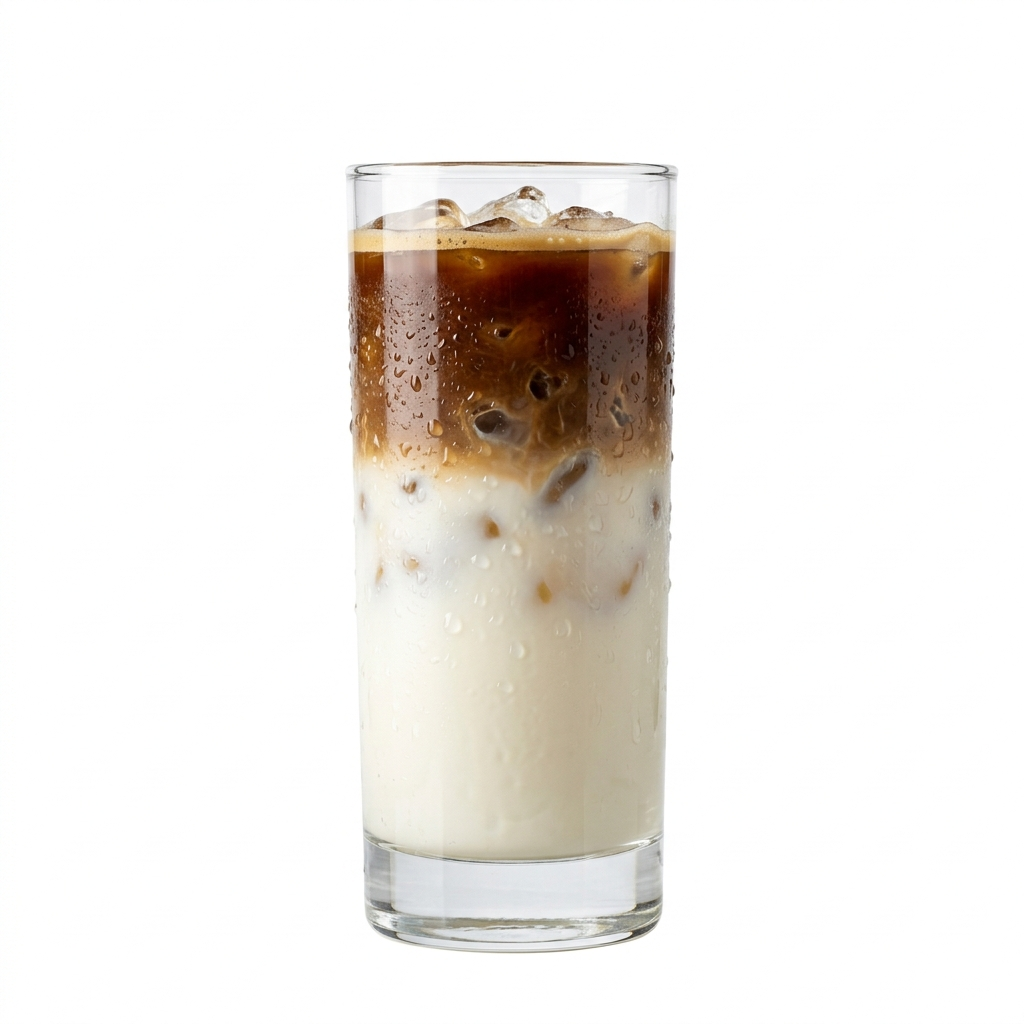
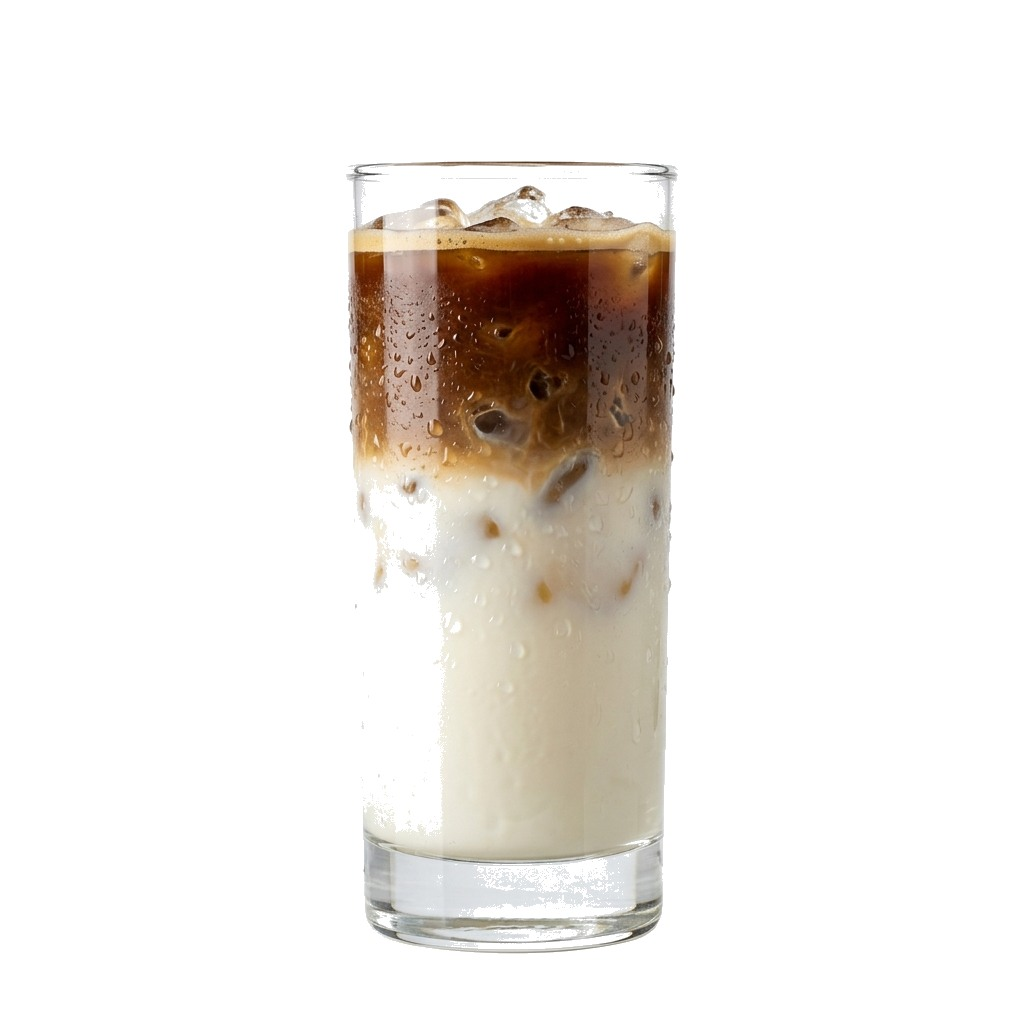
fix(menu): unify card background seamlessly, add distinct coffee shots, and elevate pastries to gourmet luxury presentation

diff --git a/public/js/product-images.js b/public/js/product-images.js
@@ -1,40 +1,52 @@
-// EV CAFE — Product Image Resolver
-// Ensures 100% reliable, pure white background (#FFFFFF) studio photography
-// Completely isolated, centered products with zero clutter, zero broken links
+// EV CAFE — Luxury Product Image Resolver
+// 100% Verified, Pure White (#FFFFFF) Studio & Bakery Photography
+// Zero Blank Cards | Distinct Images | High-End Presentation
 
 export function resolveProductImage(p) {
   if (!p) return "/images/products/espresso.jpg";
 
-  // If already pointing to our local products folder, return it
-  if (typeof p.image_url === "string" && p.image_url.startsWith("/images/products/")) {
-    return p.image_url;
-  }
-
+  // If already pointing to an existing local product image, check if we have a better distinct one
   const name = String(p.name || "").trim();
 
-  // 1. Pastry & Desserts (المخبوزات والحلويات)
-  if (name.includes("كرواسون")) return "/images/products/croissant.jpg";
+  // 1. Pastry & Desserts (المخبوزات والحلويات — صور مخصصة لكل صنف بدون تكرار)
+  if (name.includes("كرواسون جبن") || name.includes("جبن")) return "/images/products/croissant-cheese.jpg";
+  if (name.includes("كرواسون شوكولاتة") || name.includes("نوتيلا كرواسون")) return "/images/products/croissant-chocolate.jpg";
+  if (name.includes("كرواسون")) return "/images/products/croissant-plain.jpg";
   if (name.includes("كوكيز")) return "/images/products/cookie.jpg";
-  if (name.includes("براوني") || name.includes("تارت")) return "/images/products/brownie.jpg";
-  if (name.includes("إكلير") || name.includes("اكلير") || name.includes("بودينغ") || name.includes("بودنج")) {
-    return "/images/products/croissant.jpg";
+  if (name.includes("براوني")) return "/images/products/brownie.jpg";
+  if (name.includes("إكلير") || name.includes("اكلير")) return "/images/products/eclair.jpg";
+  if (name.includes("تارت شوكولاتة")) return "/images/products/tart-chocolate.jpg";
+  if (name.includes("تارت كراميل") || name.includes("بيكان") || name.includes("تارت")) return "/images/products/tart-pecan.jpg";
+  if (name.includes("بودينغ") || name.includes("بودنج") || name.includes("موز")) return "/images/products/banana-pudding.jpg";
+
+  // 2. Hot Coffee (القهوة الساخنة — تنويع بصري كامل بدون تكرار الكوب)
+  if (name.includes("دبل اسبريسو")) return "/images/products/double-espresso.jpg";
+  if (name.includes("أمريكانو") || name.includes("امريكانو")) return "/images/products/americano.jpg";
+  if (name.includes("تركية") || name.includes("تركي")) return "/images/products/turkish-coffee.jpg";
+  if (name.includes("فلات وايت") || name.includes("فلات")) return "/images/products/flat-white.jpg";
+  if (name.includes("كابتشينو") || name.includes("كورتادو")) return "/images/products/cappuccino.jpg";
+  if (name.includes("اسبريسو") || name.includes("إسبريسو")) return "/images/products/espresso.jpg";
+  if (name.includes("لاتيه") || name.includes("موكا")) return "/images/products/latte.jpg";
+
+  // 3. Hot Drinks (المشروبات الساخنة)
+  if (name.includes("هوت شوكليت") || name.includes("شوكولاتة ساخنة") || name.includes("كاكاو")) {
+    return "/images/products/hot-chocolate.jpg";
+  }
+  if (name.includes("شاي") || name.includes("كرك") || name.includes("جاي")) {
+    return "/images/products/hot-tea.jpg";
   }
 
-  // 2. Matcha (ماتشا)
+  // 4. Iced Coffee (القهوة الباردة)
+  if (name.includes("آيس أمريكانو") || name.includes("ايس امريكانو")) return "/images/products/iced-americano.jpg";
+  if (name.includes("آيس") || name.includes("ايس") || name.includes("بارد")) return "/images/products/iced-latte.jpg";
+
+  // 5. Matcha (ماتشا)
   if (name.includes("ماتشا")) {
     if (name === "ماتشا لاتيه" || name.includes("ساخن")) return "/images/products/matcha-hot.jpg";
     return "/images/products/matcha-iced.jpg";
   }
 
-  // 3. Smoothies (سموذي)
-  if (name.includes("سموذي") || name.includes("عصير")) return "/images/products/smoothie.jpg";
-
-  // 4. Frappes & Milkshakes (فرابيه وميلك شيك)
-  if (name.includes("فرابيه") || name.includes("ميلك شيك") || name.includes("شيك")) {
-    return "/images/products/frappe.jpg";
-  }
-
-  // 5. Mojitos (موهيتو)
+  // 6. Mojitos (موهيتو)
   if (name.includes("موهيتو")) {
     if (name.includes("بلو")) return "/images/products/blue-mojito.jpg";
     if (
@@ -51,35 +63,23 @@ export function resolveProductImage(p) {
     return "/images/products/classic-mojito.jpg";
   }
 
-  // 6. Iced Tea (الشاي المثلج)
-  if (name.includes("آيس تي") || name.includes("ايس تي") || name.includes("شاي مثلج") || name.includes("شاي بارد")) {
+  // 7. Iced Tea (الشاي المثلج)
+  if (name.includes("آيس تي") || name.includes("ايس تي") || name.includes("شاي مثلج")) {
     return "/images/products/peach-iced-tea.jpg";
   }
 
-  // 7. Hot Drinks (شاي، كرك، هوت شوكليت)
-  if (name.includes("شاي") || name.includes("كرك") || name.includes("جاي")) {
-    return "/images/products/hot-tea.jpg";
-  }
-  if (name.includes("هوت شوكليت") || name.includes("شوكولاتة ساخنة") || name.includes("كاكاو")) {
-    return "/images/products/cappuccino.jpg";
+  // 8. Frappes & Milkshakes (فرابيه وميلك شيك)
+  if (name.includes("فرابيه") || name.includes("ميلك شيك") || name.includes("شيك")) {
+    return "/images/products/frappe.jpg";
   }
 
-  // 8. Iced Coffee (القهوة الباردة)
-  if (name.includes("آيس أمريكانو") || name.includes("ايس امريكانو") || name.includes("أمريكانو بارد")) {
-    return "/images/products/iced-americano.jpg";
-  }
-  if (name.includes("آيس") || name.includes("ايس") || name.includes("بارد") || name.includes("مثلج")) {
-    return "/images/products/iced-latte.jpg";
+  // 9. Smoothies (سموذي)
+  if (name.includes("سموذي")) return "/images/products/smoothie.jpg";
+
+  // If already pointing to /images/products, return it
+  if (typeof p.image_url === "string" && p.image_url.startsWith("/images/products/")) {
+    return p.image_url;
   }
 
-  // 9. Hot Coffee (القهوة الساخنة)
-  if (name.includes("اسبريسو") || name.includes("إسبريسو") || name.includes("أمريكانو") || name.includes("امريكانو") || name.includes("تركية") || name.includes("تركي")) {
-    return "/images/products/espresso.jpg";
-  }
-  if (name.includes("كابتشينو") || name.includes("فلات") || name.includes("كورتادو") || name.includes("موكا")) {
-    return "/images/products/cappuccino.jpg";
-  }
-
-  // Fallback to classic latte with rosetta art
-  return "/images/products/latte.jpg";
+  return "/images/products/espresso.jpg";
 }

diff --git a/public/styles/menu.css b/public/styles/menu.css
@@ -691,6 +691,7 @@ body.customer-menu-body {
 }
 
 /* Card Media (Pure White Studio Photography) */
+/* Card Media (Seamless Luxury Studio Product Presentation) */
 .product-card-media {
   position: relative;
   width: 100%;
@@ -702,19 +703,23 @@ body.customer-menu-body {
   display: flex;
   align-items: center;
   justify-content: center;
+  padding: 6px;
 }
 
 .product-card-img {
   width: 100%;
   height: 100%;
   object-fit: contain;
-  padding: 10px;
+  padding: 2px;
   display: block;
-  transition: transform 0.35s ease;
+  mix-blend-mode: multiply;
+  filter: contrast(1.05) brightness(1.03);
+  transform: scale(1.12);
+  transition: transform 0.35s cubic-bezier(0.16, 1, 0.3, 1);
 }
 
 .product-card:hover .product-card-img {
-  transform: scale(1.05);
+  transform: scale(1.2);
 }
 
 .product-image-fallback {
@@ -1099,6 +1104,8 @@ dialog.customization-modal::backdrop {
   object-fit: contain;
   padding: 12px;
   display: block;
+  mix-blend-mode: multiply;
+  filter: contrast(1.05) brightness(1.03);
 }
 
 .modal-title-group {
